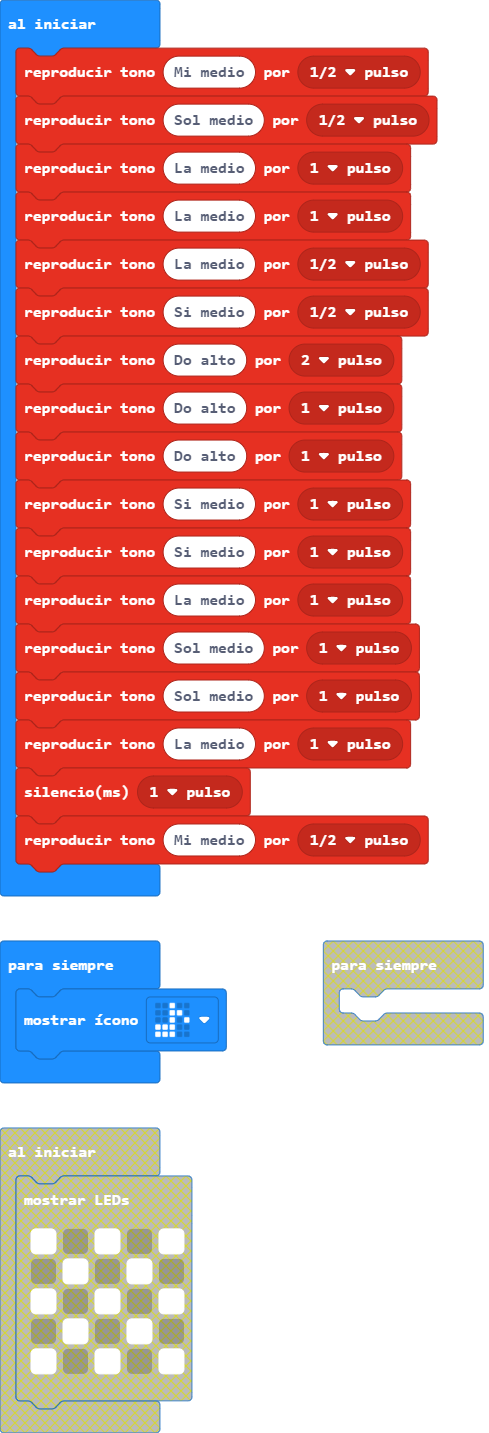
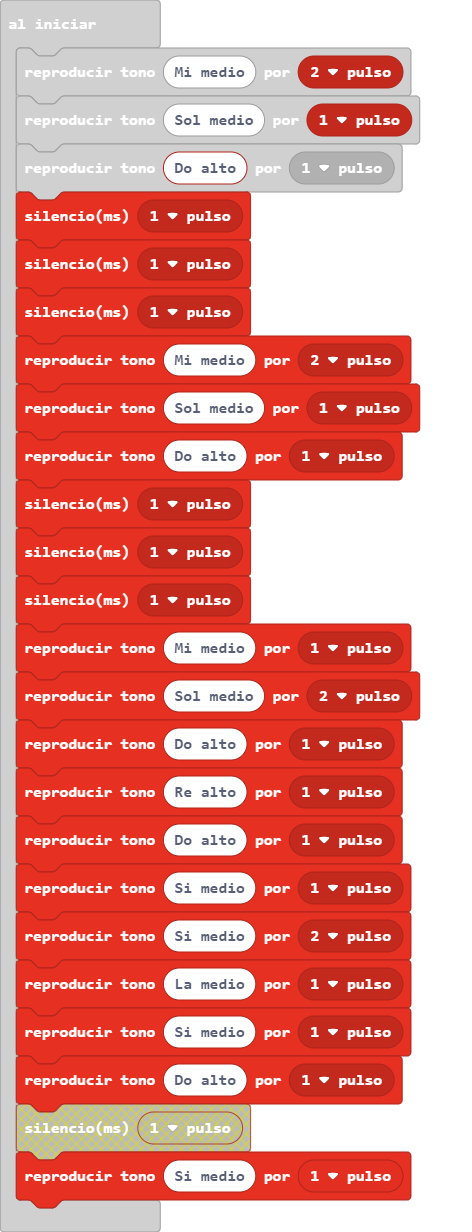
ghryjrtyj

diff --git a/main.ts b/main.ts
@@ -1,20 +1,26 @@
-music.playTone(330, music.beat(BeatFraction.Half))
-music.playTone(392, music.beat(BeatFraction.Half))
-music.playTone(440, music.beat(BeatFraction.Whole))
-music.playTone(440, music.beat(BeatFraction.Whole))
-music.playTone(440, music.beat(BeatFraction.Half))
-music.playTone(494, music.beat(BeatFraction.Half))
-music.playTone(523, music.beat(BeatFraction.Double))
-music.playTone(523, music.beat(BeatFraction.Whole))
-music.playTone(523, music.beat(BeatFraction.Whole))
-music.playTone(494, music.beat(BeatFraction.Whole))
-music.playTone(494, music.beat(BeatFraction.Whole))
-music.playTone(440, music.beat(BeatFraction.Whole))
+music.playTone(330, music.beat(BeatFraction.Double))
 music.playTone(392, music.beat(BeatFraction.Whole))
-music.playTone(392, music.beat(BeatFraction.Whole))
-music.playTone(440, music.beat(BeatFraction.Whole))
+music.playTone(523, music.beat(BeatFraction.Whole))
 music.rest(music.beat(BeatFraction.Whole))
-music.playTone(330, music.beat(BeatFraction.Half))
+music.rest(music.beat(BeatFraction.Whole))
+music.rest(music.beat(BeatFraction.Whole))
+music.playTone(330, music.beat(BeatFraction.Double))
+music.playTone(392, music.beat(BeatFraction.Whole))
+music.playTone(523, music.beat(BeatFraction.Whole))
+music.rest(music.beat(BeatFraction.Whole))
+music.rest(music.beat(BeatFraction.Whole))
+music.rest(music.beat(BeatFraction.Whole))
+music.playTone(330, music.beat(BeatFraction.Whole))
+music.playTone(392, music.beat(BeatFraction.Double))
+music.playTone(523, music.beat(BeatFraction.Whole))
+music.playTone(587, music.beat(BeatFraction.Whole))
+music.playTone(523, music.beat(BeatFraction.Whole))
+music.playTone(494, music.beat(BeatFraction.Whole))
+music.playTone(494, music.beat(BeatFraction.Double))
+music.playTone(440, music.beat(BeatFraction.Whole))
+music.playTone(494, music.beat(BeatFraction.Whole))
+music.playTone(523, music.beat(BeatFraction.Whole))
+music.playTone(494, music.beat(BeatFraction.Whole))
 basic.forever(function () {
     basic.showIcon(IconNames.EigthNote)
 })
